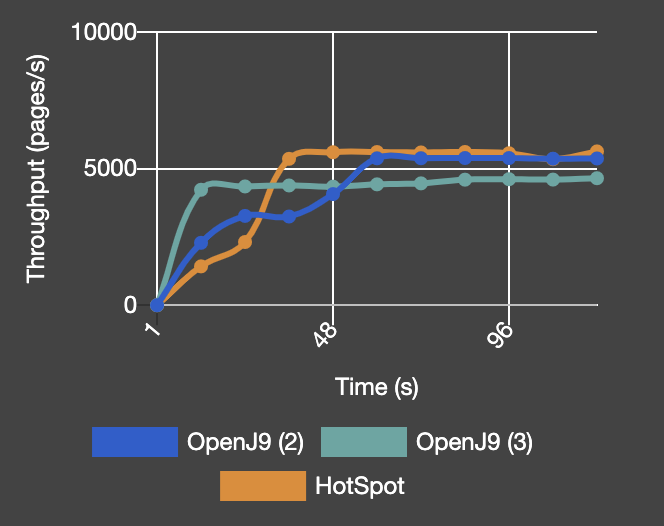
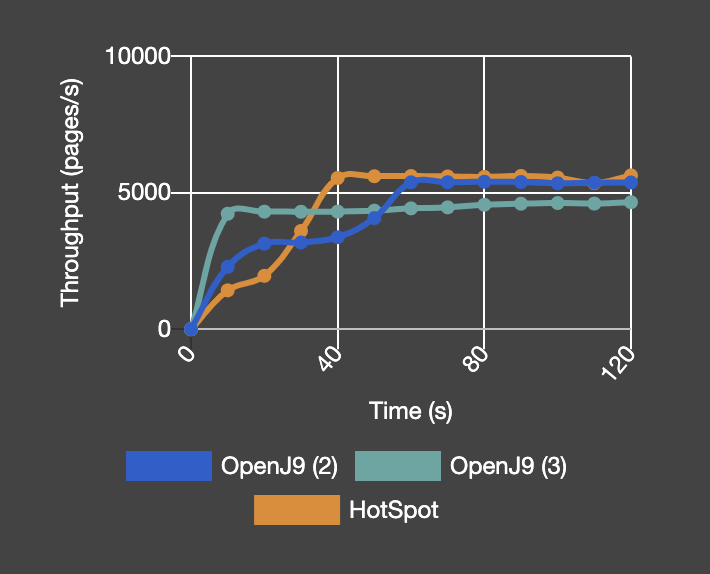
Cards content and images in the detailed doc changed

Changed region(s): [[0.0301, 0.0304, 0.9337, 0.6692], [0.1205, 0.6996, 0.8133, 0.9734]]

diff --git a/src/pages/performance.js b/src/pages/performance.js
@@ -496,16 +496,16 @@ class performance extends Component {
           }}
         >
           <PerformanceCard graphData={this.state.barChartJDK11QuarkusStartup} heading="66% faster startup time" primary={true} chartType="bar" yAxis="Relative startup time"> 
-            <p>Lorem Ipsum is simply dummy text of the printing and typesetting industry. Lorem Ipsum has been the industry's standard dummy text ever</p>
+            <p>Quarkus might be supersonic, but running it with OpenJ9 instead of HotSpot reduces startup time by a further 66%.</p>
           </PerformanceCard>
           <PerformanceCard graphData={this.state.barChartJDK11QuarkusFootprint} heading="18% smaller footprint after startup" primary={true} chartType="bar" yAxis="Relative resident set size"> 
-            <p>Lorem Ipsum is simply dummy text of the printing and typesetting industry. Lorem Ipsum has been the industry's standard dummy text ever</p>
+            <p>The ultra-supersonic startup time comes at some tradeoff to footprint, but OpenJ9 still has an edge over HotSpot.</p>
           </PerformanceCard>
           <PerformanceCard graphData={this.state.lineChartJK11QuarkusFasterRampupInTheCloud} heading="Faster ramp-up time in the cloud" primary={true} chartType="line" xAxis="Time (s)" yAxis="Throughput (pages/s)"> 
-            <p>Lorem Ipsum is simply dummy text of the printing and typesetting industry. Lorem Ipsum has been the industry's standard dummy text ever</p>
+            <p>For short-lived cloud workloads running on Quarkus, OpenJ9 delivers excellent ramp-up performance compared to HotSpot.</p>
           </PerformanceCard>
           <PerformanceCard graphData={this.state.barChartJK11QuarkusFootprintDuringLoad} heading="18% smaller footprint during load" primary={true} chartType="bar" yAxis="Resident Set Size (MB)" xAxis="Time (s)"> 
-            <p>Lorem Ipsum is simply dummy text of the printing and typesetting industry. Lorem Ipsum has been the industry's standard dummy text ever</p>
+            <p>When ramp-up completes, as well as getting there faster, OpenJ9 still retains a smaller footprint than HotSpot.</p>
           </PerformanceCard>
         </div>
         <div
